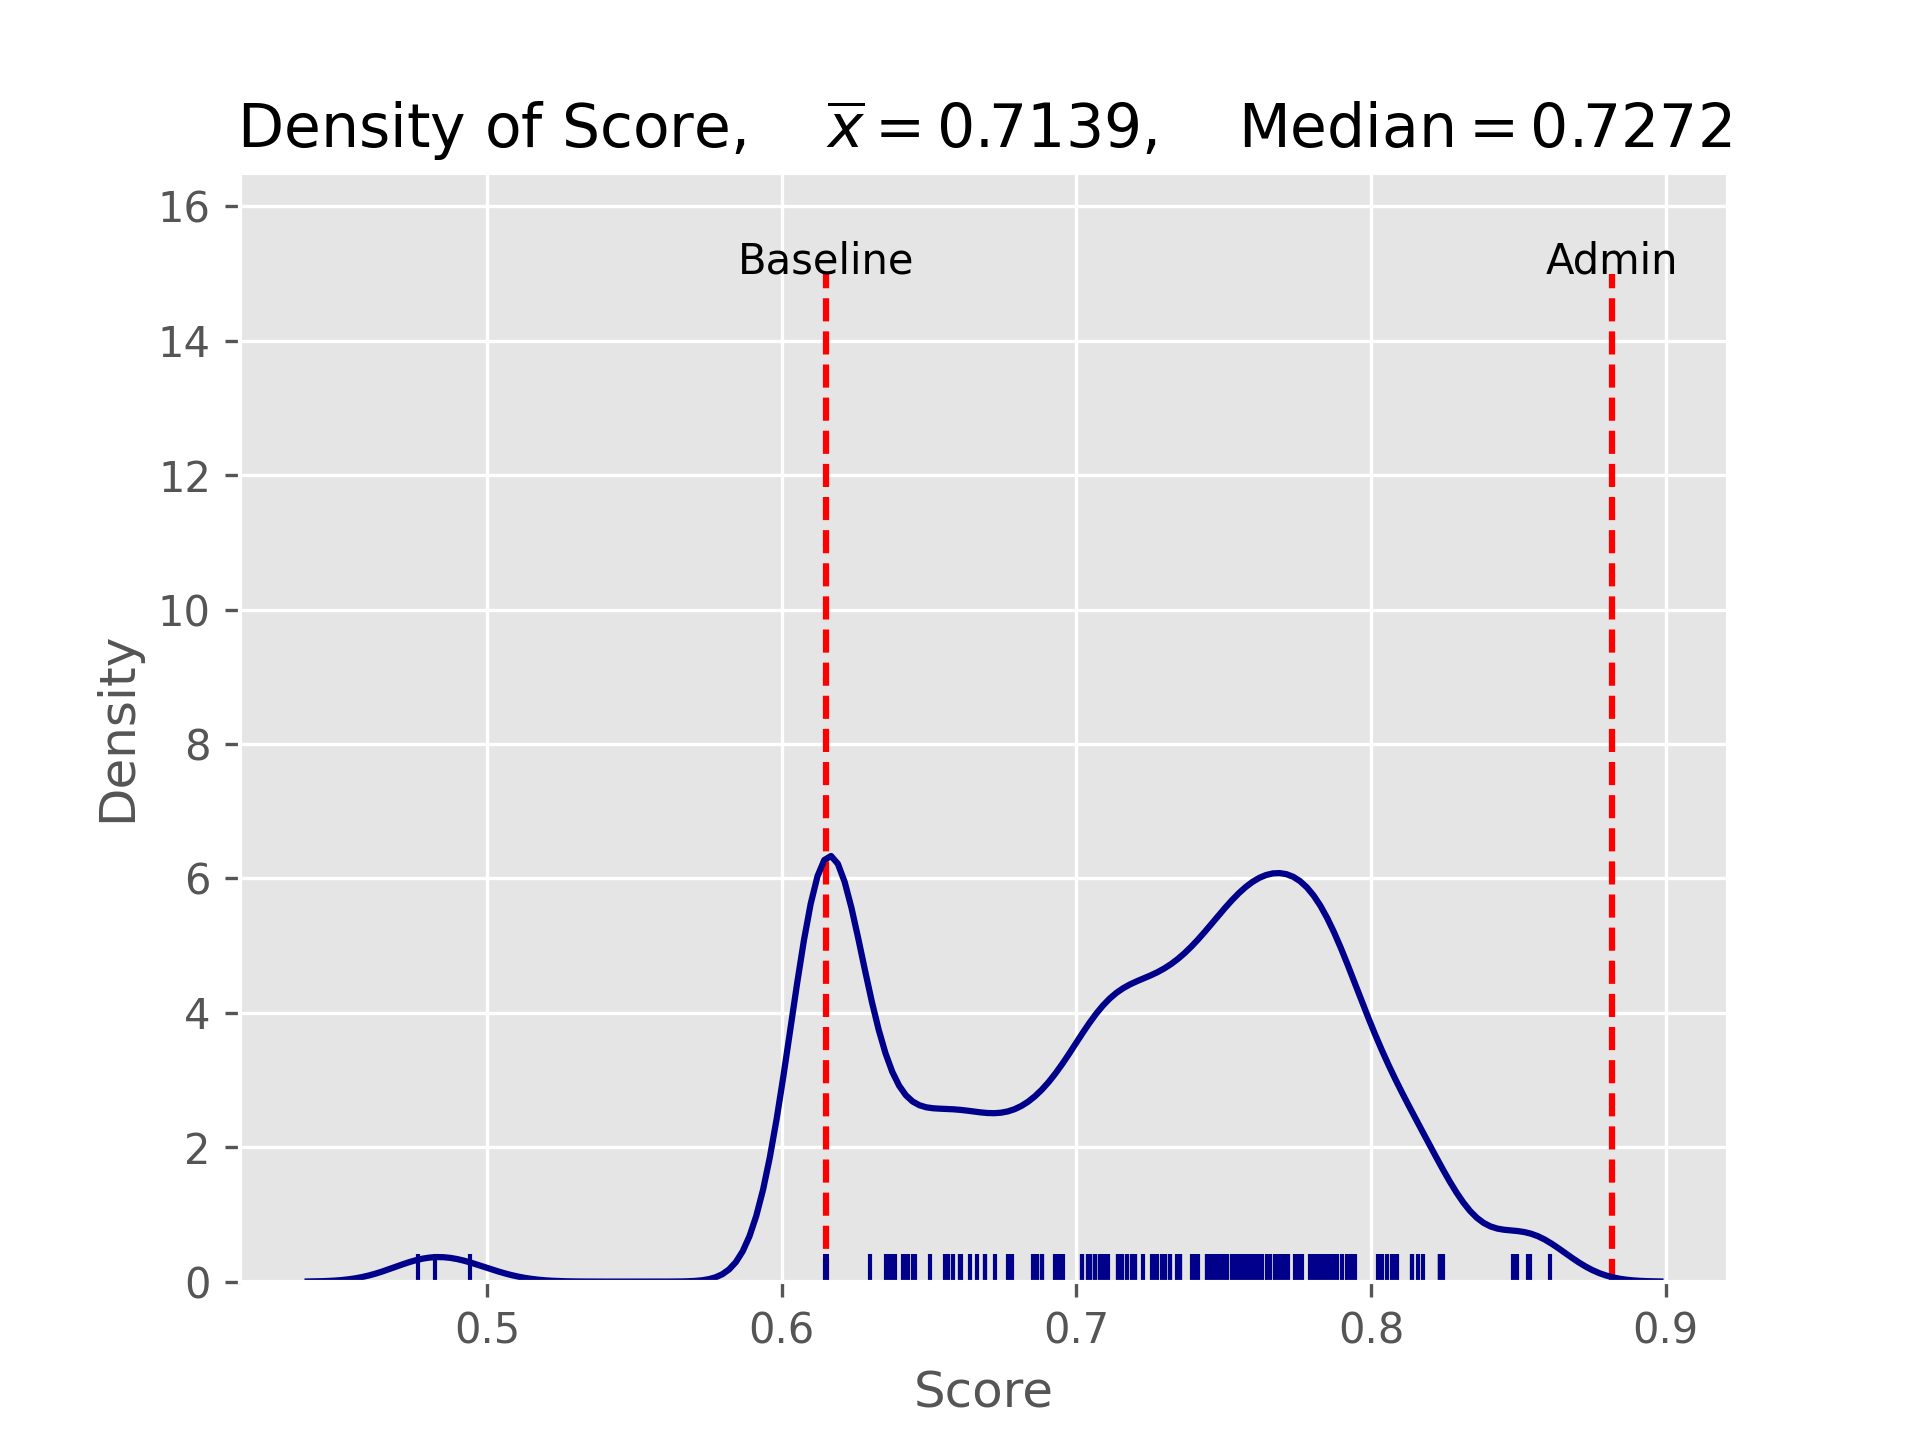
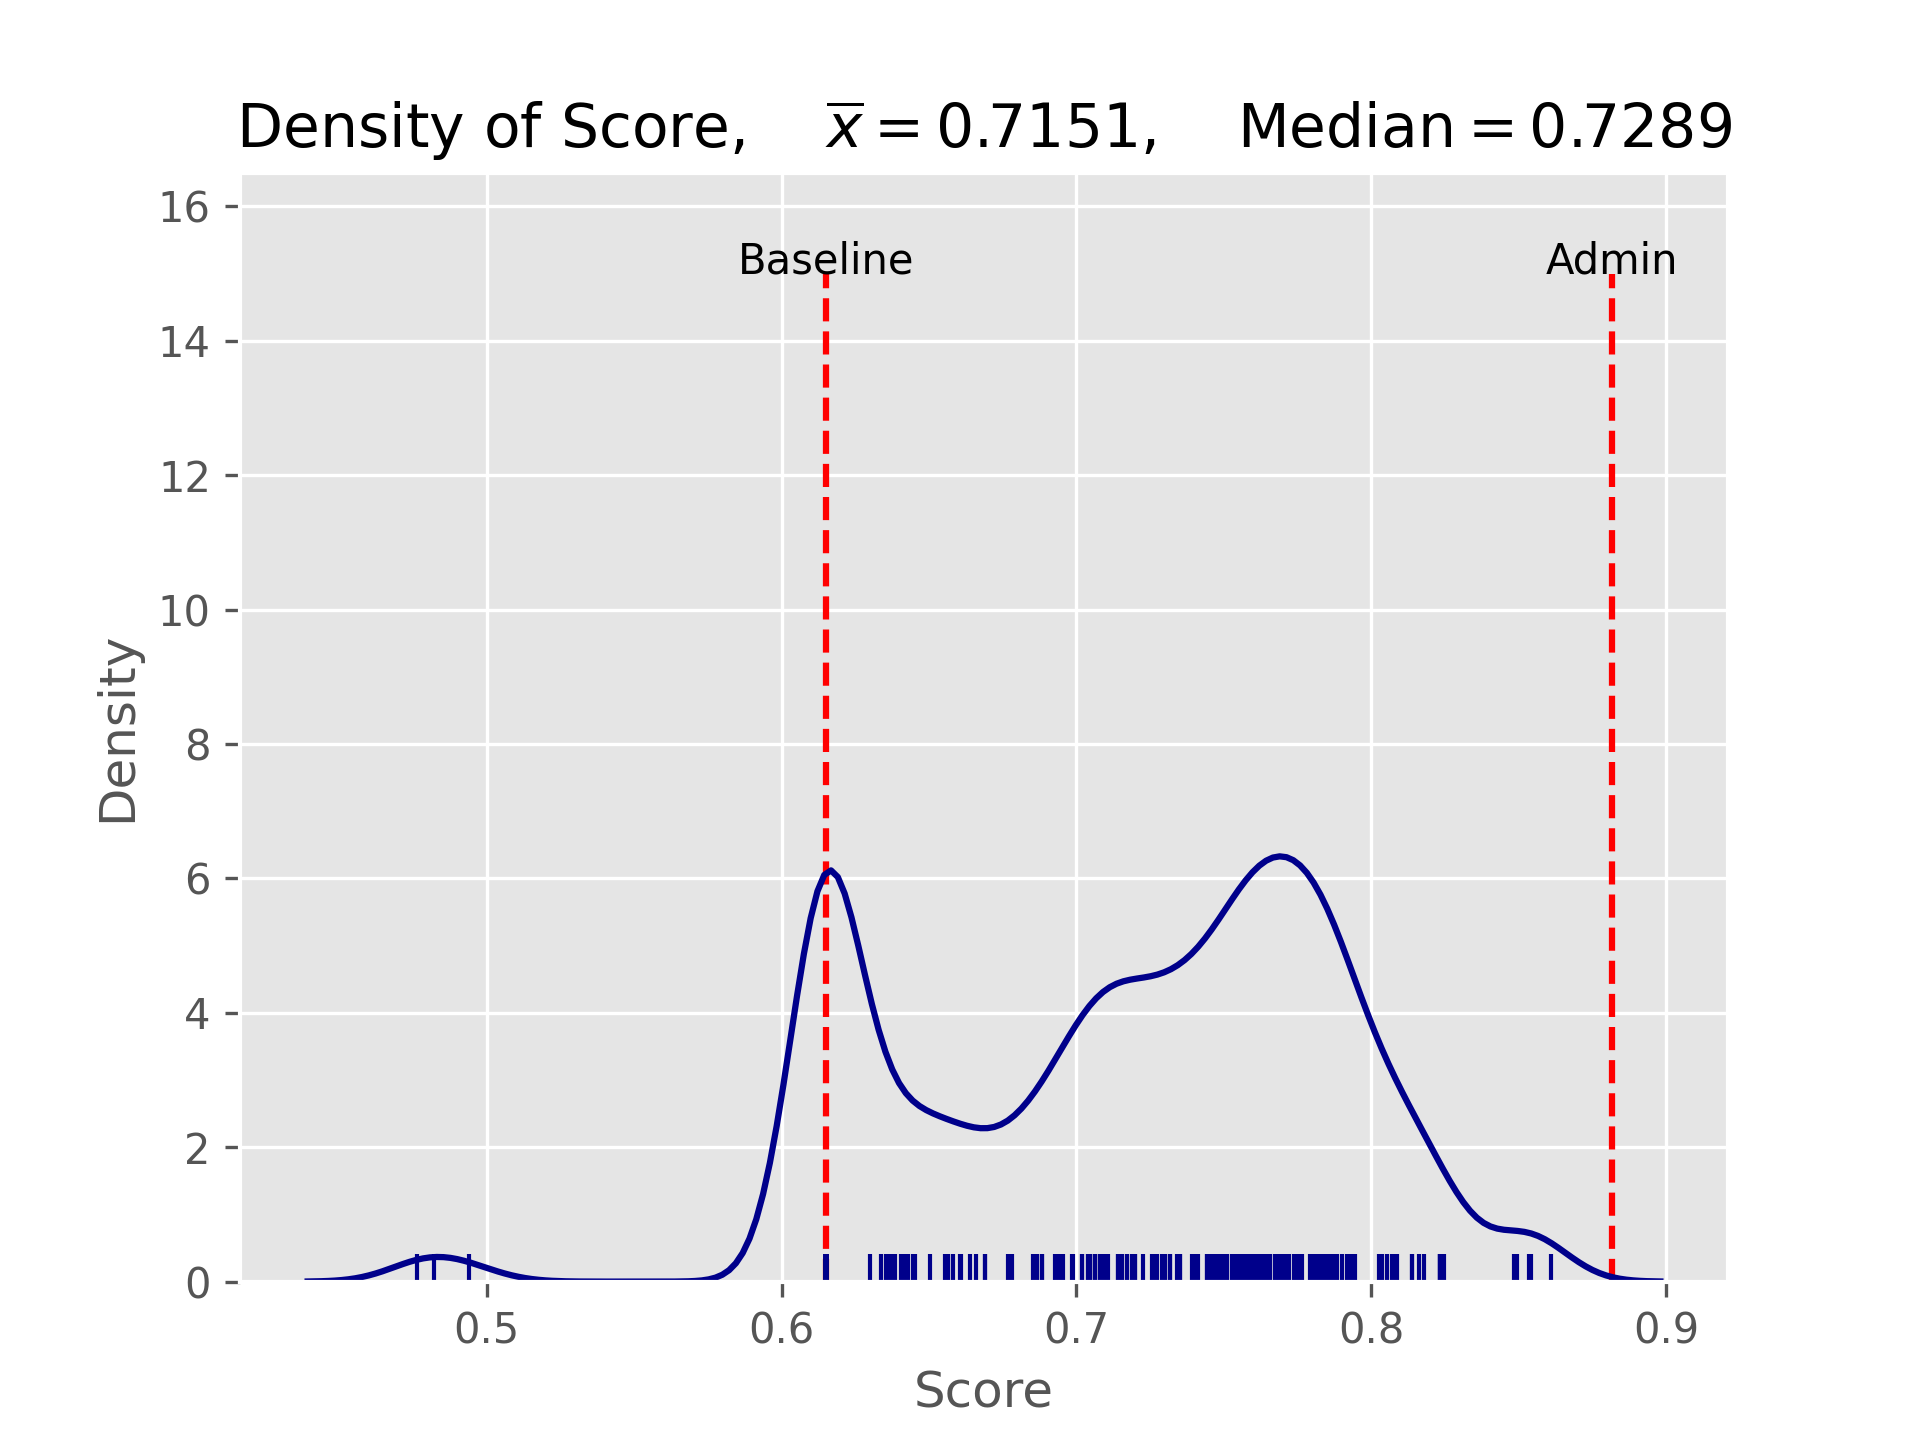
Updated: 2021-05-19 22:07:20

diff --git a/down.html b/down.html
@@ -1,0 +1,17 @@
+<!DOCTYPE html>
+<html>
+<script src="https://ajax.googleapis.com/ajax/libs/jquery/3.5.1/jquery.min.js"></script>
+<head>
+    <title>down</title>
+</head>
+<body>
+    <script type="text/javascript">
+
+        $("body").append($("<a id='download_kaggle'/>"));
+        $('#download_kaggle').attr("href", "https://www.kaggle.com/c/27753/publicleaderboarddata.zip");
+        $('#download_kaggle').attr("download", "spotoroo-publicleaderboard.zip");
+        $('#download_kaggle')[0].click();
+    </script>
+
+</body>
+</html>

diff --git a/README.md b/README.md
@@ -1,6 +1,6 @@
 # ETC3250 Kaggle score
 
-**Last updated: May 19, 2021 20:09:23**
+**Last updated: May 19, 2021 22:07:20**
 
 ## WARNING: Your final grade is based on your score on the `private leaderboard`. 
 
@@ -44,7 +44,7 @@ Number of teams: 223
 |22|6758694|nhee0002|18 May 22:59:06|0.80305|13|
 |23|6749412|Yunpeng Liu|19 May 19:44:04|0.80249|13|
 |24|6761625|Le-Hao Jian|19 May 14:10:12|0.79456|12|
-|25|6750698|yjia0021|19 May 19:17:30|0.79400|12|
+|25|6750698|yjia0021|19 May 22:06:42|0.79400|12|
 |26|6805744|Gregory Constantinou|18 May 22:11:55|0.79400|12|
 |27|6750238|zzd|18 May 13:08:11|0.79343|12|
 |28|6756942|jtho0048|19 May 17:29:20|0.79343|12|
@@ -75,146 +75,146 @@ Number of teams: 223
 |53|6765501|iren0002|17 May 21:55:43|0.77475|12|
 |54|6749892|zzz|18 May 21:47:56|0.77475|12|
 |55|6753795|ttra0038|13 May 14:13:17|0.77419|12|
-|56|6764289|Thomas Pranoto|18 May 02:58:37|0.77192|12|
-|57|6749351|jche0254|18 May 23:15:21|0.77079|12|
-|58|6761498|qche0022|19 May 01:51:24|0.77023|12|
-|59|6763202|dngu0066|19 May 11:27:57|0.76910|12|
-|60|6761842|mort0001|19 May 19:04:38|0.76853|11|
-|61|6766956|sbat0011|19 May 09:45:34|0.76796|11|
-|62|6754493|Po-Yu Huang|16 May 13:21:24|0.76796|11|
-|63|6764152|Pei Ni Lim|16 May 16:26:18|0.76740|11|
-|64|6759088|skhu0008|18 May 16:25:21|0.76740|11|
-|65|6755482|dche0021|19 May 15:30:05|0.76570|11|
-|66|6753842|Anqi Luo|17 May 23:35:47|0.76513|11|
-|67|6768279|Thomas Winson|19 May 19:04:19|0.76457|11|
-|68|6768072|Jkan0025|19 May 15:12:41|0.76287|11|
-|69|6754021|ntry0001|19 May 15:36:55|0.76230|11|
-|70|6815062|Maxime Grosjean|19 May 13:06:45|0.76230|11|
-|71|6755781|vwid06|17 May 05:08:33|0.76174|11|
-|72|6768276|Alex Chou|18 May 22:59:40|0.76117|11|
-|73|6759326|Emily Sheehan|19 May 15:01:16|0.76061|11|
-|74|6805182|[Deleted] 54952e69-da1a-4388-9a03-99e918c04f2a|17 May 20:46:16|0.76004|11|
-|75|6749366|xwan0160|18 May 23:11:28|0.75891|11|
-|76|6764345|yliu0320|18 May 01:26:36|0.75778|11|
-|77|6750247|Kevin Tat17|17 May 16:27:17|0.75721|11|
-|78|6768590|bhua0008|19 May 17:21:18|0.75664|11|
-|79|6756077|walh0002|19 May 17:27:25|0.75551|11|
-|80|6759596|monash_jpea0010|19 May 13:55:39|0.75438|11|
-|81|6765312|mqas0003|19 May 17:54:42|0.75382|11|
-|82|6768666|jham0020|18 May 23:34:48|0.75325|11|
-|83|6750103|heva0001|19 May 15:19:58|0.75268|11|
-|84|6762119|Evelyn Budhy Wibowo|17 May 22:42:36|0.75268|11|
-|85|6754314|Alexi Tsakis|18 May 13:24:14|0.75099|11|
-|86|6756740|psap0002|18 May 23:02:05|0.75042|11|
-|87|6815147|Mathieu Van Der Poel|19 May 12:59:02|0.74985|11|
-|88|6750774|yhua0047|17 May 20:36:49|0.74985|11|
-|89|6758777|Gayani Amali Balasuriya|17 May 12:29:32|0.74872|11|
-|90|6754556|sami0006|16 May 16:22:20|0.74759|11|
-|91|6750485|Zhongxuan Yin|19 May 17:10:15|0.74646|11|
-|92|6765326|ywan0454|12 May 02:49:19|0.74533|11|
-|93|6749461|mkar0012|19 May 10:00:46|0.74476|11|
-|94|6783780|mshi0014|19 May 09:11:12|0.74419|11|
-|95|6751520|mluk0004|19 May 15:53:46|0.74419|11|
-|96|6755109|Dea Avega Editya|17 May 10:44:40|0.74136|11|
-|97|6760740|qwan0060|19 May 16:17:04|0.74080|11|
-|98|6753832|hmaus1|16 May 20:47:42|0.73967|11|
-|99|6749310|rtia0007|18 May 17:27:10|0.73967|11|
-|100|6813620|zz2050|18 May 01:55:15|0.73910|11|
-|101|6766670|rlai0004|18 May 19:51:06|0.73514|10|
-|102|6749457|Belgian Pharmacist|19 May 13:32:25|0.73514|10|
-|103|6753638|nper0009|17 May 10:02:16|0.73457|10|
-|104|6768117|avon0005|18 May 15:23:50|0.73457|10|
-|105|6750514|wwin0001|14 May 23:41:39|0.73401|10|
-|106|6750992|Qimei Yang|18 May 14:32:40|0.73174|10|
-|107|6750996|Lirui Guo|19 May 12:50:53|0.73174|10|
-|108|6749287|rwon0005|16 May 22:14:18|0.73005|10|
-|109|6766440|Chenjie Gong|19 May 11:01:20|0.73005|10|
-|110|6767433|ang0004|19 May 09:49:37|0.72948|10|
-|111|6760878|[Deleted] 8437558d-7d69-4376-8d7f-bb0a98404938|14 May 09:53:00|0.72891|10|
-|112|6763613|ofon0002|19 May 17:53:32|0.72722|10|
-|113|6750421|sche0149|18 May 14:23:33|0.72608|10|
-|114|6763455|Ziyue Zhang|19 May 14:41:45|0.72552|10|
-|115|6763958|berob5|19 May 10:39:33|0.72269|10|
-|116|6753813|yzha0633|19 May 10:41:38|0.71986|10|
-|117|6749490|fwan0018|19 May 10:07:34|0.71986|10|
-|118|6813666|potterJames|18 May 02:02:35|0.71929|10|
-|119|6754894|dama0007|17 May 10:02:36|0.71929|10|
-|120|6767902|wfer0009|17 May 19:23:16|0.71873|10|
-|121|6754678|Ronghao Zhang|19 May 15:01:26|0.71703|10|
-|122|6758921|Zhijun Li/zlii0231|19 May 13:31:07|0.71703|10|
-|123|6749822|John Yan|17 May 23:52:06|0.71533|10|
-|124|6751234|gdav0007|19 May 17:50:03|0.71420|10|
-|125|6751598|hfen27|14 May 13:11:44|0.71420|10|
-|126|6767603|jfer0020|11 May 19:09:43|0.71080|10|
-|127|6766065|jluo0015|19 May 17:28:05|0.71024|10|
-|128|6755522|casco2|15 May 12:16:36|0.71024|10|
-|129|6767378|Arzu Khanna|19 May 17:16:53|0.70911|10|
-|130|6762269|Priya Dingorkar|18 May 16:28:29|0.70797|10|
-|131|6766000|Langtian Cheng|18 May 23:47:36|0.70628|10|
-|132|6762123|Siddhant Tirodkar|18 May 01:19:50|0.70628|10|
-|133|6761828|Ying Zou95|19 May 01:52:45|0.70628|10|
-|134|6767860|ylii0273|19 May 18:22:12|0.70628|10|
-|135|6763905|xliu0026|19 May 13:10:39|0.70458|10|
-|136|6824534|Student.365|19 May 17:20:11|0.70401|10|
-|137|6760555|zzha0230|19 May 18:41:57|0.70401|10|
-|138|6762592|xyan0048|19 May 00:40:59|0.70175|10|
-|139|6759061|Abin John|18 May 21:54:10|0.70175|10|
-|140|6765299|zyliu16|17 May 23:52:38|0.69552|10|
-|141|6768046|asei0003|19 May 19:19:46|0.69439|10|
-|142|6754890|ctin0006|19 May 03:26:17|0.69326|10|
-|143|6767829|ysoo0004|19 May 14:32:38|0.69269|10|
-|144|6782531|jraw0002|16 May 17:04:01|0.68817|10|
-|145|6760529|maam0001|19 May 19:31:52|0.68817|10|
-|146|6750607|hngo0005|19 May 19:14:10|0.68647|10|
-|147|6762192|abab0012|18 May 12:35:53|0.68647|10|
-|148|6774817|WongWJ|19 May 17:06:01|0.68590|10|
-|149|6753792|Angelina Atanassova|18 May 15:53:39|0.68534|10|
-|150|6753670|Tran Thanh Han Ha|09 May 18:38:25|0.67798|10|
-|151|6761203|ajai0024|18 May 16:23:14|0.67741|10|
-|152|6761343|dgar0010|19 May 16:40:37|0.67741|10|
-|153|6807769|stupid assignment|17 May 18:42:10|0.67685|9|
-|154|6756086|akha0059|17 May 23:06:57|0.67232|9|
-|155|6753817|JiaPeng0106|10 May 13:28:44|0.66893|9|
-|156|6768108|jgre0006|19 May 03:09:02|0.66893|9|
-|157|6812044|Alexandra_Cqn|17 May 21:27:06|0.66610|9|
-|158|6754085|Tomer Fridland|19 May 13:35:50|0.66383|9|
-|159|6775741|blen0004|18 May 15:42:21|0.66100|8|
-|160|6765060|khyd0001|18 May 09:56:48|0.66044|8|
-|161|6768582|ague0004|18 May 17:47:53|0.66044|8|
-|162|6765741|bwen0003|14 May 01:20:38|0.65817|8|
-|163|6765463|lwan0125|18 May 23:58:59|0.65647|8|
-|164|6817089|QAanyh123|19 May 15:52:51|0.65647|8|
-|165|6765323|alim0045|18 May 16:05:02|0.65591|<=7|
-|166|6800064|Thuy Tran LINH|15 May 16:13:51|0.65534|<=7|
-|167|6763638|heva0003|17 May 17:32:14|0.65025|<=7|
-|168|6764503|Yu Zhou|19 May 16:26:48|0.64516|<=7|
-|169|6754439|cyee0011|19 May 15:11:41|0.64459|<=7|
-|170|6761697|azad0001|17 May 15:15:21|0.64289|<=7|
-|171|6757039|phun0001|18 May 07:33:19|0.64176|<=7|
-|172|6759274|Dwayne Pinto|19 May 18:44:19|0.64119|<=7|
-|173|6770339|Jonathan Alexandro|19 May 01:46:50|0.63837|<=7|
-|174|6750168|Ruimin Lin|18 May 21:50:27|0.63780|<=7|
-|175|6808040|cnm666|17 May 18:40:51|0.63723|<=7|
-|176|6768141|Don_Eggsaladsanga|19 May 01:49:56|0.63667|<=7|
-|177|6760382|jlee0179|16 May 13:31:23|0.63554|<=7|
-|178|6753957|Matthew Willaton|19 May 19:38:51|0.62988|<=7|
-|179|6738627|predictions_2021-05-04.csv|04 May 17:42:25|0.61516|<=7|
-|180|6750648|[Deleted] a1fcae29-177c-495d-be3e-ecb1d2e418e1|06 May 20:32:47|0.61516|<=7|
-|181|6751310|Cpen0009|16 May 01:16:05|0.61516|<=7|
-|182|6753687|Juliette101|17 May 19:33:02|0.61516|<=7|
-|183|6754262|Namrata Goel|07 May 13:16:59|0.61516|<=7|
-|184|6754610|dvek0001|19 May 18:44:14|0.61516|<=7|
-|185|6756637|lqia0006|18 May 22:59:39|0.61516|<=7|
-|186|6758582|Vinny Vu|18 May 19:18:59|0.61516|<=7|
-|187|6758766|hhen0005|19 May 14:27:34|0.61516|<=7|
-|188|6758855|MKitchener_Monash|19 May 02:00:14|0.61516|<=7|
-|189|6759272|Suyue|08 May 13:38:52|0.61516|<=7|
-|190|6760487|Junze Zeng|19 May 01:11:15|0.61516|<=7|
-|191|6760974|ZipingLeow|19 May 04:12:29|0.61516|<=7|
-|192|6761427|byeo0005|17 May 18:24:14|0.61516|<=7|
-|193|6761422|Wenxuan Gong|08 May 22:16:50|0.61516|<=7|
-|194|6749288|dpha0015|16 May 23:39:15|0.61516|<=7|
-|195|6762642|rals0003|15 May 23:50:53|0.61516|<=7|
+|56|6749461|mkar0012|19 May 20:49:14|0.77362|12|
+|57|6764289|Thomas Pranoto|18 May 02:58:37|0.77192|12|
+|58|6749351|jche0254|18 May 23:15:21|0.77079|12|
+|59|6761498|qche0022|19 May 01:51:24|0.77023|12|
+|60|6763202|dngu0066|19 May 11:27:57|0.76910|12|
+|61|6761842|mort0001|19 May 19:04:38|0.76853|11|
+|62|6766956|sbat0011|19 May 09:45:34|0.76796|11|
+|63|6754493|Po-Yu Huang|16 May 13:21:24|0.76796|11|
+|64|6764152|Pei Ni Lim|16 May 16:26:18|0.76740|11|
+|65|6759088|skhu0008|18 May 16:25:21|0.76740|11|
+|66|6755482|dche0021|19 May 15:30:05|0.76570|11|
+|67|6753842|Anqi Luo|17 May 23:35:47|0.76513|11|
+|68|6768279|Thomas Winson|19 May 19:04:19|0.76457|11|
+|69|6765060|khyd0001|19 May 20:09:02|0.76400|11|
+|70|6768072|Jkan0025|19 May 15:12:41|0.76287|11|
+|71|6754021|ntry0001|19 May 15:36:55|0.76230|11|
+|72|6815062|Maxime Grosjean|19 May 13:06:45|0.76230|11|
+|73|6755781|vwid06|17 May 05:08:33|0.76174|11|
+|74|6768276|Alex Chou|18 May 22:59:40|0.76117|11|
+|75|6759326|Emily Sheehan|19 May 15:01:16|0.76061|11|
+|76|6805182|[Deleted] 54952e69-da1a-4388-9a03-99e918c04f2a|17 May 20:46:16|0.76004|11|
+|77|6749366|xwan0160|18 May 23:11:28|0.75891|11|
+|78|6764345|yliu0320|18 May 01:26:36|0.75778|11|
+|79|6750247|Kevin Tat17|17 May 16:27:17|0.75721|11|
+|80|6768590|bhua0008|19 May 17:21:18|0.75664|11|
+|81|6756077|walh0002|19 May 17:27:25|0.75551|11|
+|82|6759596|monash_jpea0010|19 May 13:55:39|0.75438|11|
+|83|6765312|mqas0003|19 May 17:54:42|0.75382|11|
+|84|6768666|jham0020|18 May 23:34:48|0.75325|11|
+|85|6750103|heva0001|19 May 15:19:58|0.75268|11|
+|86|6762119|Evelyn Budhy Wibowo|17 May 22:42:36|0.75268|11|
+|87|6754314|Alexi Tsakis|18 May 13:24:14|0.75099|11|
+|88|6756740|psap0002|18 May 23:02:05|0.75042|11|
+|89|6815147|Mathieu Van Der Poel|19 May 12:59:02|0.74985|11|
+|90|6750774|yhua0047|17 May 20:36:49|0.74985|11|
+|91|6758777|Gayani Amali Balasuriya|17 May 12:29:32|0.74872|11|
+|92|6754556|sami0006|19 May 20:46:17|0.74759|11|
+|93|6750485|Zhongxuan Yin|19 May 17:10:15|0.74646|11|
+|94|6765326|ywan0454|12 May 02:49:19|0.74533|11|
+|95|6783780|mshi0014|19 May 09:11:12|0.74419|11|
+|96|6751520|mluk0004|19 May 15:53:46|0.74419|11|
+|97|6755109|Dea Avega Editya|17 May 10:44:40|0.74136|11|
+|98|6760740|qwan0060|19 May 16:17:04|0.74080|11|
+|99|6753832|hmaus1|16 May 20:47:42|0.73967|11|
+|100|6749310|rtia0007|18 May 17:27:10|0.73967|11|
+|101|6813620|zz2050|18 May 01:55:15|0.73910|11|
+|102|6766670|rlai0004|18 May 19:51:06|0.73514|10|
+|103|6749457|Belgian Pharmacist|19 May 13:32:25|0.73514|10|
+|104|6753638|nper0009|17 May 10:02:16|0.73457|10|
+|105|6768117|avon0005|18 May 15:23:50|0.73457|10|
+|106|6750514|wwin0001|14 May 23:41:39|0.73401|10|
+|107|6750992|Qimei Yang|18 May 14:32:40|0.73174|10|
+|108|6750996|Lirui Guo|19 May 12:50:53|0.73174|10|
+|109|6749287|rwon0005|16 May 22:14:18|0.73005|10|
+|110|6766440|Chenjie Gong|19 May 11:01:20|0.73005|10|
+|111|6767433|ang0004|19 May 09:49:37|0.72948|10|
+|112|6760878|[Deleted] 8437558d-7d69-4376-8d7f-bb0a98404938|14 May 09:53:00|0.72891|10|
+|113|6763613|ofon0002|19 May 17:53:32|0.72722|10|
+|114|6750421|sche0149|18 May 14:23:33|0.72608|10|
+|115|6763455|Ziyue Zhang|19 May 14:41:45|0.72552|10|
+|116|6763958|berob5|19 May 10:39:33|0.72269|10|
+|117|6753813|yzha0633|19 May 10:41:38|0.71986|10|
+|118|6749490|fwan0018|19 May 10:07:34|0.71986|10|
+|119|6813666|potterJames|18 May 02:02:35|0.71929|10|
+|120|6754894|dama0007|17 May 10:02:36|0.71929|10|
+|121|6767902|wfer0009|19 May 21:33:42|0.71873|10|
+|122|6754678|Ronghao Zhang|19 May 15:01:26|0.71703|10|
+|123|6758921|Zhijun Li/zlii0231|19 May 13:31:07|0.71703|10|
+|124|6749822|John Yan|17 May 23:52:06|0.71533|10|
+|125|6751234|gdav0007|19 May 17:50:03|0.71420|10|
+|126|6751598|hfen27|14 May 13:11:44|0.71420|10|
+|127|6767603|jfer0020|11 May 19:09:43|0.71080|10|
+|128|6766065|jluo0015|19 May 17:28:05|0.71024|10|
+|129|6755522|casco2|15 May 12:16:36|0.71024|10|
+|130|6767378|Arzu Khanna|19 May 17:16:53|0.70911|10|
+|131|6762269|Priya Dingorkar|18 May 16:28:29|0.70797|10|
+|132|6766000|Langtian Cheng|18 May 23:47:36|0.70628|10|
+|133|6762123|Siddhant Tirodkar|18 May 01:19:50|0.70628|10|
+|134|6761828|Ying Zou95|19 May 01:52:45|0.70628|10|
+|135|6767860|ylii0273|19 May 18:22:12|0.70628|10|
+|136|6763905|xliu0026|19 May 13:10:39|0.70458|10|
+|137|6824534|Student.365|19 May 17:20:11|0.70401|10|
+|138|6760555|zzha0230|19 May 18:41:57|0.70401|10|
+|139|6762592|xyan0048|19 May 00:40:59|0.70175|10|
+|140|6759061|Abin John|19 May 21:39:48|0.70175|10|
+|141|6756086|akha0059|19 May 20:21:34|0.69892|10|
+|142|6762642|rals0003|19 May 21:23:07|0.69835|10|
+|143|6765299|zyliu16|17 May 23:52:38|0.69552|10|
+|144|6768046|asei0003|19 May 19:19:46|0.69439|10|
+|145|6754890|ctin0006|19 May 03:26:17|0.69326|10|
+|146|6767829|ysoo0004|19 May 14:32:38|0.69269|10|
+|147|6782531|jraw0002|16 May 17:04:01|0.68817|10|
+|148|6760529|maam0001|19 May 19:31:52|0.68817|10|
+|149|6750607|hngo0005|19 May 20:13:57|0.68647|10|
+|150|6762192|abab0012|18 May 12:35:53|0.68647|10|
+|151|6774817|WongWJ|19 May 17:06:01|0.68590|10|
+|152|6753792|Angelina Atanassova|18 May 15:53:39|0.68534|10|
+|153|6753670|Tran Thanh Han Ha|09 May 18:38:25|0.67798|10|
+|154|6761203|ajai0024|18 May 16:23:14|0.67741|10|
+|155|6761343|dgar0010|19 May 16:40:37|0.67741|10|
+|156|6807769|stupid assignment|17 May 18:42:10|0.67685|9|
+|157|6753817|JiaPeng0106|10 May 13:28:44|0.66893|9|
+|158|6768108|jgre0006|19 May 03:09:02|0.66893|9|
+|159|6812044|Alexandra_Cqn|17 May 21:27:06|0.66610|9|
+|160|6754085|Tomer Fridland|19 May 13:35:50|0.66383|9|
+|161|6775741|blen0004|18 May 15:42:21|0.66100|8|
+|162|6768582|ague0004|18 May 17:47:53|0.66044|8|
+|163|6765741|bwen0003|14 May 01:20:38|0.65817|8|
+|164|6765463|lwan0125|18 May 23:58:59|0.65647|8|
+|165|6817089|QAanyh123|19 May 15:52:51|0.65647|8|
+|166|6765323|alim0045|18 May 16:05:02|0.65591|<=7|
+|167|6800064|Thuy Tran LINH|15 May 16:13:51|0.65534|<=7|
+|168|6763638|heva0003|17 May 17:32:14|0.65025|<=7|
+|169|6764503|Yu Zhou|19 May 16:26:48|0.64516|<=7|
+|170|6754439|cyee0011|19 May 15:11:41|0.64459|<=7|
+|171|6761697|azad0001|17 May 15:15:21|0.64289|<=7|
+|172|6757039|phun0001|19 May 20:44:28|0.64176|<=7|
+|173|6759274|Dwayne Pinto|19 May 18:44:19|0.64119|<=7|
+|174|6750168|Ruimin Lin|19 May 21:19:08|0.64063|<=7|
+|175|6770339|Jonathan Alexandro|19 May 01:46:50|0.63837|<=7|
+|176|6808040|cnm666|17 May 18:40:51|0.63723|<=7|
+|177|6768141|Don_Eggsaladsanga|19 May 21:11:48|0.63667|<=7|
+|178|6760382|jlee0179|16 May 13:31:23|0.63554|<=7|
+|179|6758855|MKitchener_Monash|19 May 21:57:52|0.63384|<=7|
+|180|6753957|Matthew Willaton|19 May 19:38:51|0.62988|<=7|
+|181|6738627|predictions_2021-05-04.csv|04 May 17:42:25|0.61516|<=7|
+|182|6750648|[Deleted] a1fcae29-177c-495d-be3e-ecb1d2e418e1|06 May 20:32:47|0.61516|<=7|
+|183|6751310|Cpen0009|16 May 01:16:05|0.61516|<=7|
+|184|6753687|Juliette101|17 May 19:33:02|0.61516|<=7|
+|185|6754262|Namrata Goel|07 May 13:16:59|0.61516|<=7|
+|186|6754610|dvek0001|19 May 18:44:14|0.61516|<=7|
+|187|6756637|lqia0006|18 May 22:59:39|0.61516|<=7|
+|188|6758582|Vinny Vu|18 May 19:18:59|0.61516|<=7|
+|189|6758766|hhen0005|19 May 14:27:34|0.61516|<=7|
+|190|6759272|Suyue|08 May 13:38:52|0.61516|<=7|
+|191|6760487|Junze Zeng|19 May 01:11:15|0.61516|<=7|
+|192|6760974|ZipingLeow|19 May 04:12:29|0.61516|<=7|
+|193|6761427|byeo0005|17 May 18:24:14|0.61516|<=7|
+|194|6761422|Wenxuan Gong|08 May 22:16:50|0.61516|<=7|
+|195|6749288|dpha0015|16 May 23:39:15|0.61516|<=7|
 |196|6763027|panagiotis stylianos|09 May 07:03:18|0.61516|<=7|
 |197|6760102|Yuheng Cui|09 May 13:49:20|0.61516|<=7|
 |198|6764303|fpso0001|18 May 14:49:07|0.61516|<=7|
